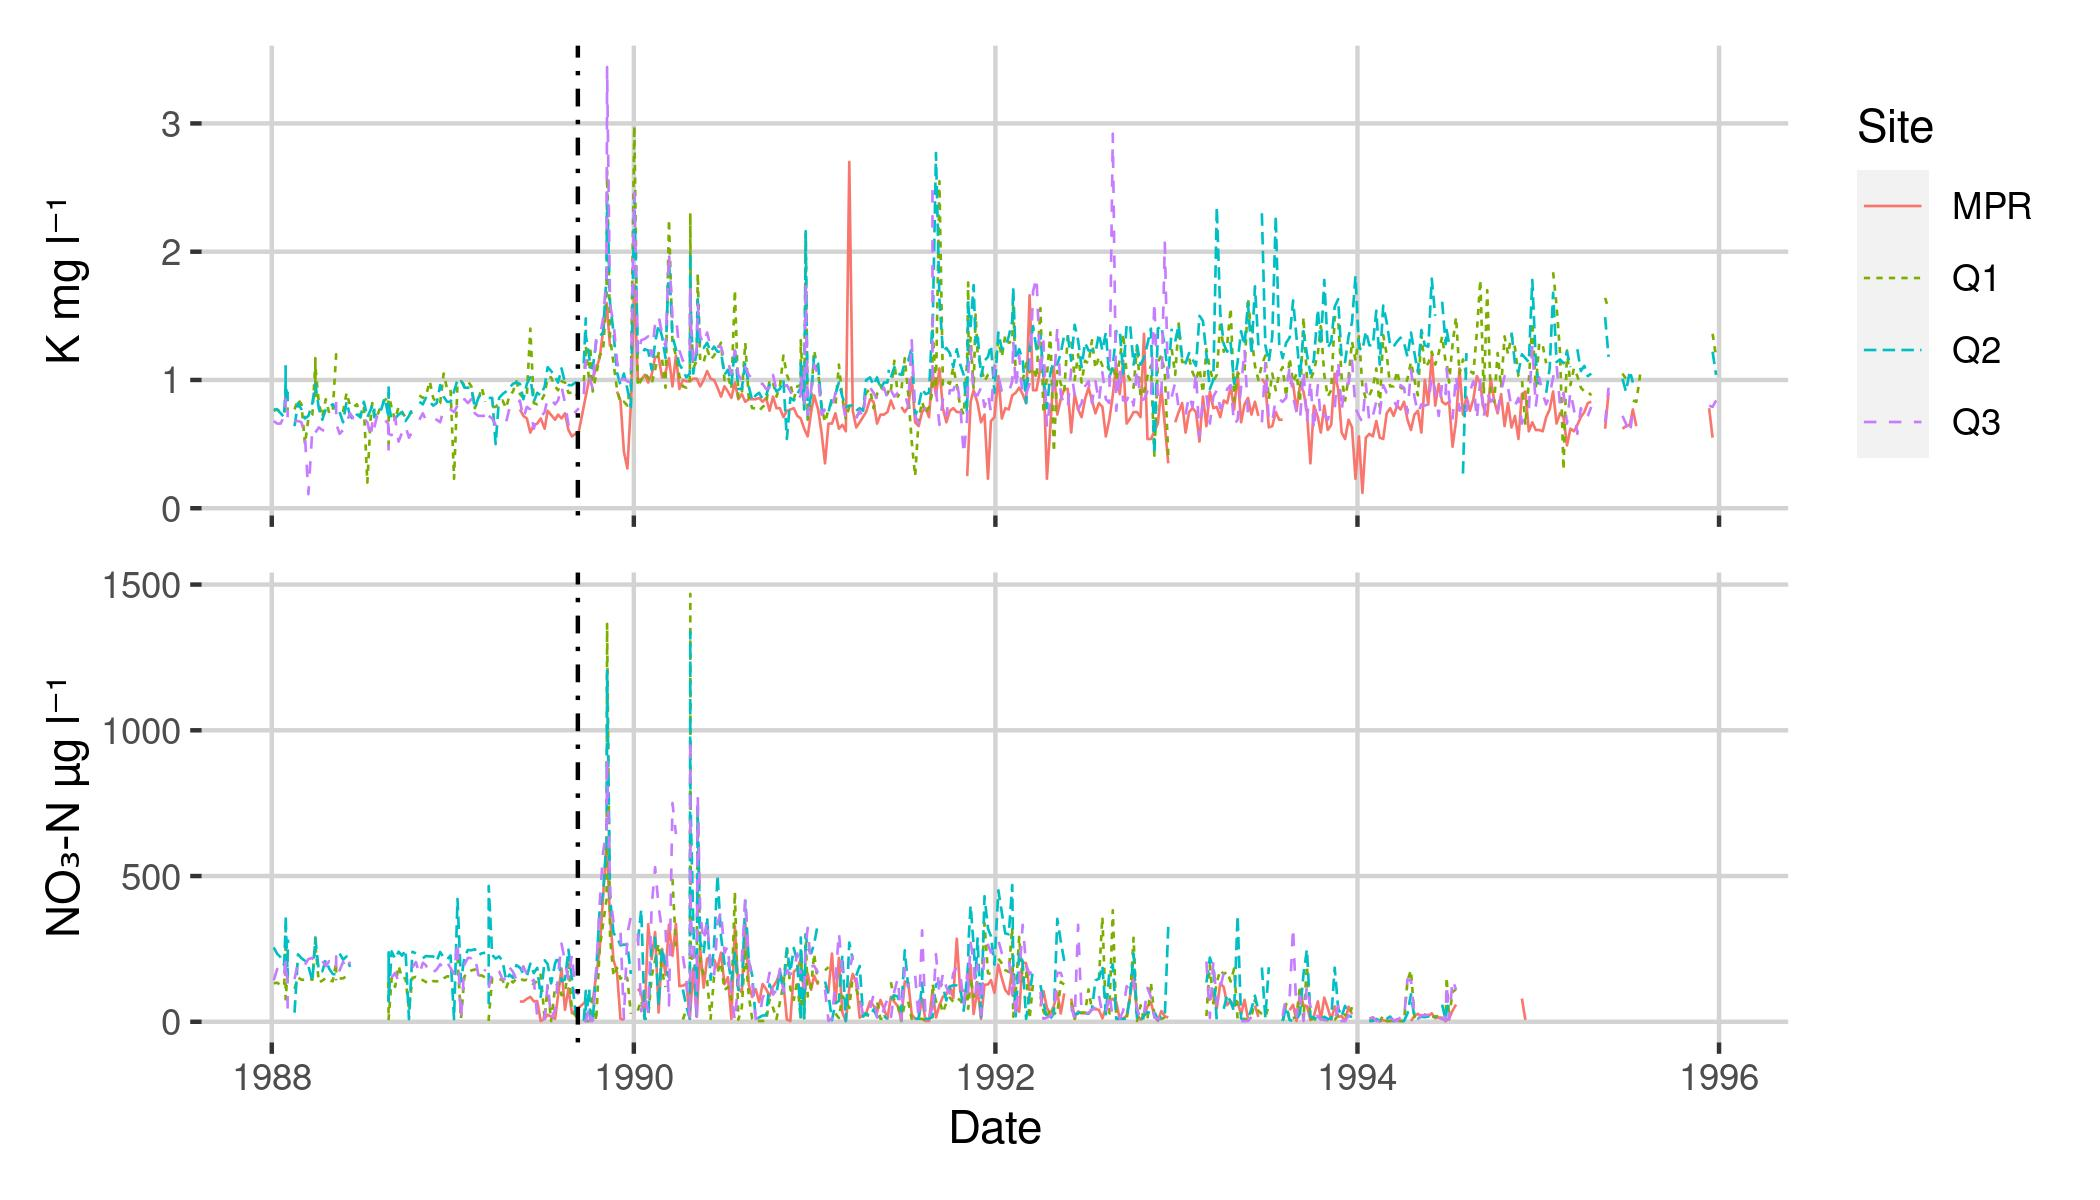
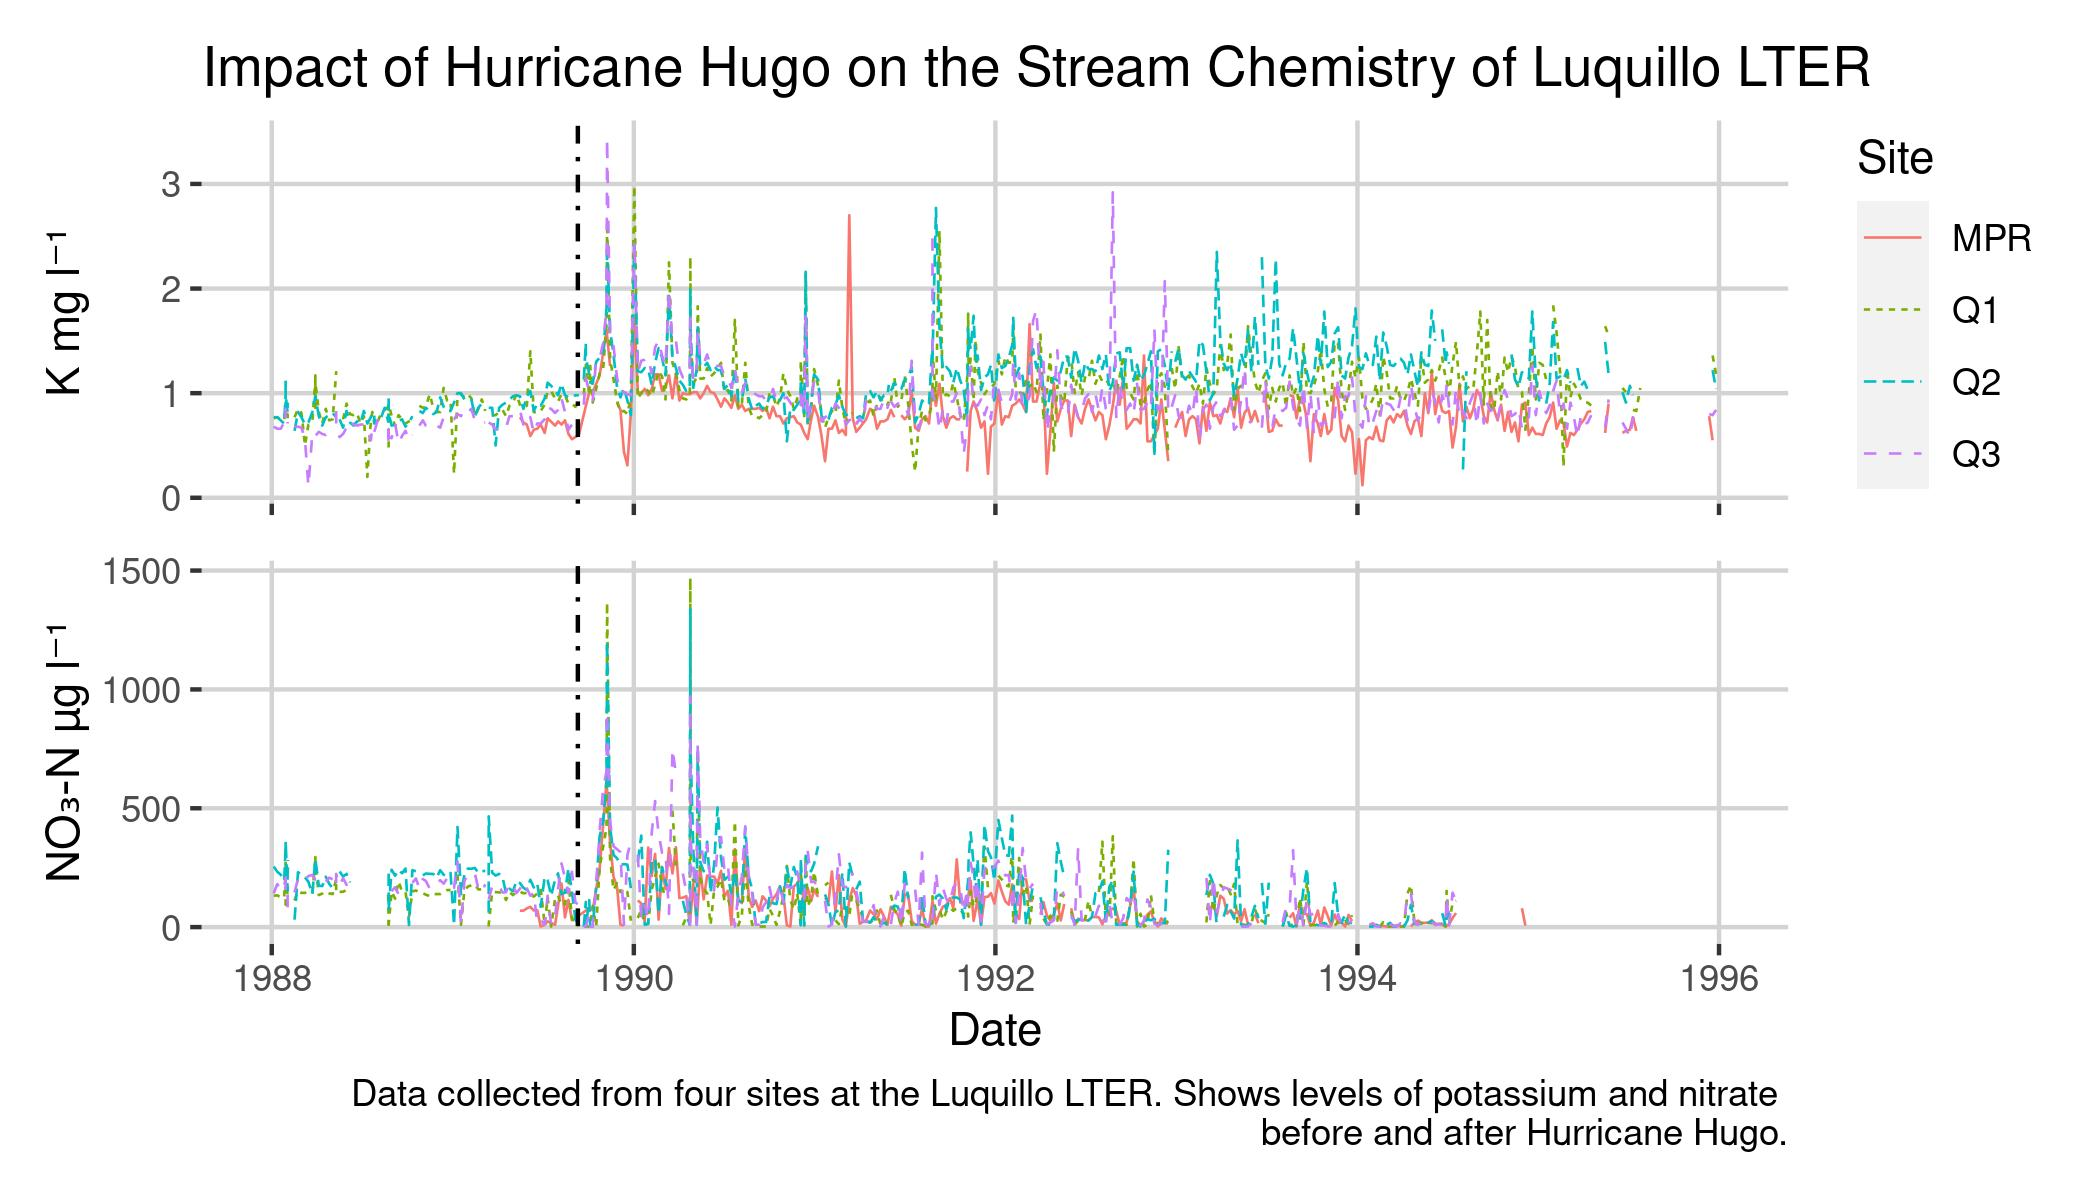
Finishing touches

diff --git a/presentation.html b/presentation.html
@@ -69,14 +69,16 @@ class: center, middle
 ## Prepping the data
 #### - Importing
 
-  ```
+  
+  ```r
   prm_data &lt;- read_csv("/courses/EDS214/team_basset_hound/data/
               RioMameyesPuenteRoto.csv", na = "-9999")
   ```
   
 #### - Cleaning
 
-  ```
+  
+  ```r
   prm_subset &lt;- prm_data %&gt;%
     clean_names() %&gt;% 
     select(sample_date, sample_id, no3, k) %&gt;% 
@@ -85,7 +87,8 @@ class: center, middle
 
 #### - Merging
 
-  ```
+  
+  ```r
   full_df &lt;- full_join(prm_subset, bq1_subset) %&gt;% 
     full_join(bq2_subset) %&gt;% 
     full_join(bq3_subset) %&gt;% 
@@ -99,23 +102,30 @@ class: center, middle
 
 ```r
 plot_k &lt;- ggplot(data = full_df, aes(x = sample_date, y = k)) +
+
   geom_line(aes(color = sample_id, linetype = sample_id), size = 0.3) + 
   geom_vline(xintercept = as.POSIXct(as.Date("1989-09-10")), linetype = 4) + 
   theme(axis.text.x = element_blank(),
-       axis.title.x = element_blank(),
-       panel.background = element_blank(), 
-       panel.grid.major = element_line(color = "light grey")) +
+        axis.title.x = element_blank(),
+        panel.background = element_blank(), 
+        panel.grid.major = element_line(color = "light grey")) +
   labs(y = "K mg l\u207b\u00b9", 
-      color = "Site",
-      linetype = "Site")
+       color = "Site",
+       linetype = "Site",
+       title = "Impact of Hurricane Hugo on the Stream Chemistry of Luquillo LTER")
+
 
 plot_no3 &lt;- ggplot(data = full_df, aes(x = sample_date, y = no3)) +
   geom_line(aes(color = sample_id, linetype = sample_id), show.legend = FALSE, size = 0.3) + 
   geom_vline(xintercept = as.POSIXct(as.Date("1989-09-10")), linetype = 4) +
   labs(x = "Date", 
-       y = "NO\u2083\u2010N \u00b5g l\u207b\u00b9") + 
+       y = "NO\u2083\u2010N \u00b5g l\u207b\u00b9",
+       caption = "Data collected from four sites at the Luquillo LTER. Shows levels of potassium and nitrate \nbefore and after Hurricane Hugo.") + 
   theme(panel.background = element_blank(), 
         panel.grid.major = element_line(color = "light grey")) 
+  
+
+final_plot &lt;- (plot_k / plot_no3) 
 ```
 
 
@@ -123,16 +133,15 @@ plot_no3 &lt;- ggplot(data = full_df, aes(x = sample_date, y = no3)) +
 
 ## Our Graph
 
-
-```r
-knitr::include_graphics('./figs/final_plot.jpg')
-```
-
 ![](./figs/final_plot.jpg)&lt;!-- --&gt;
 
 ---
 
 ## Making the presentation
+
+#### - We tried using Xarnigan!
+
+#### - Had some issues
 
 
 
